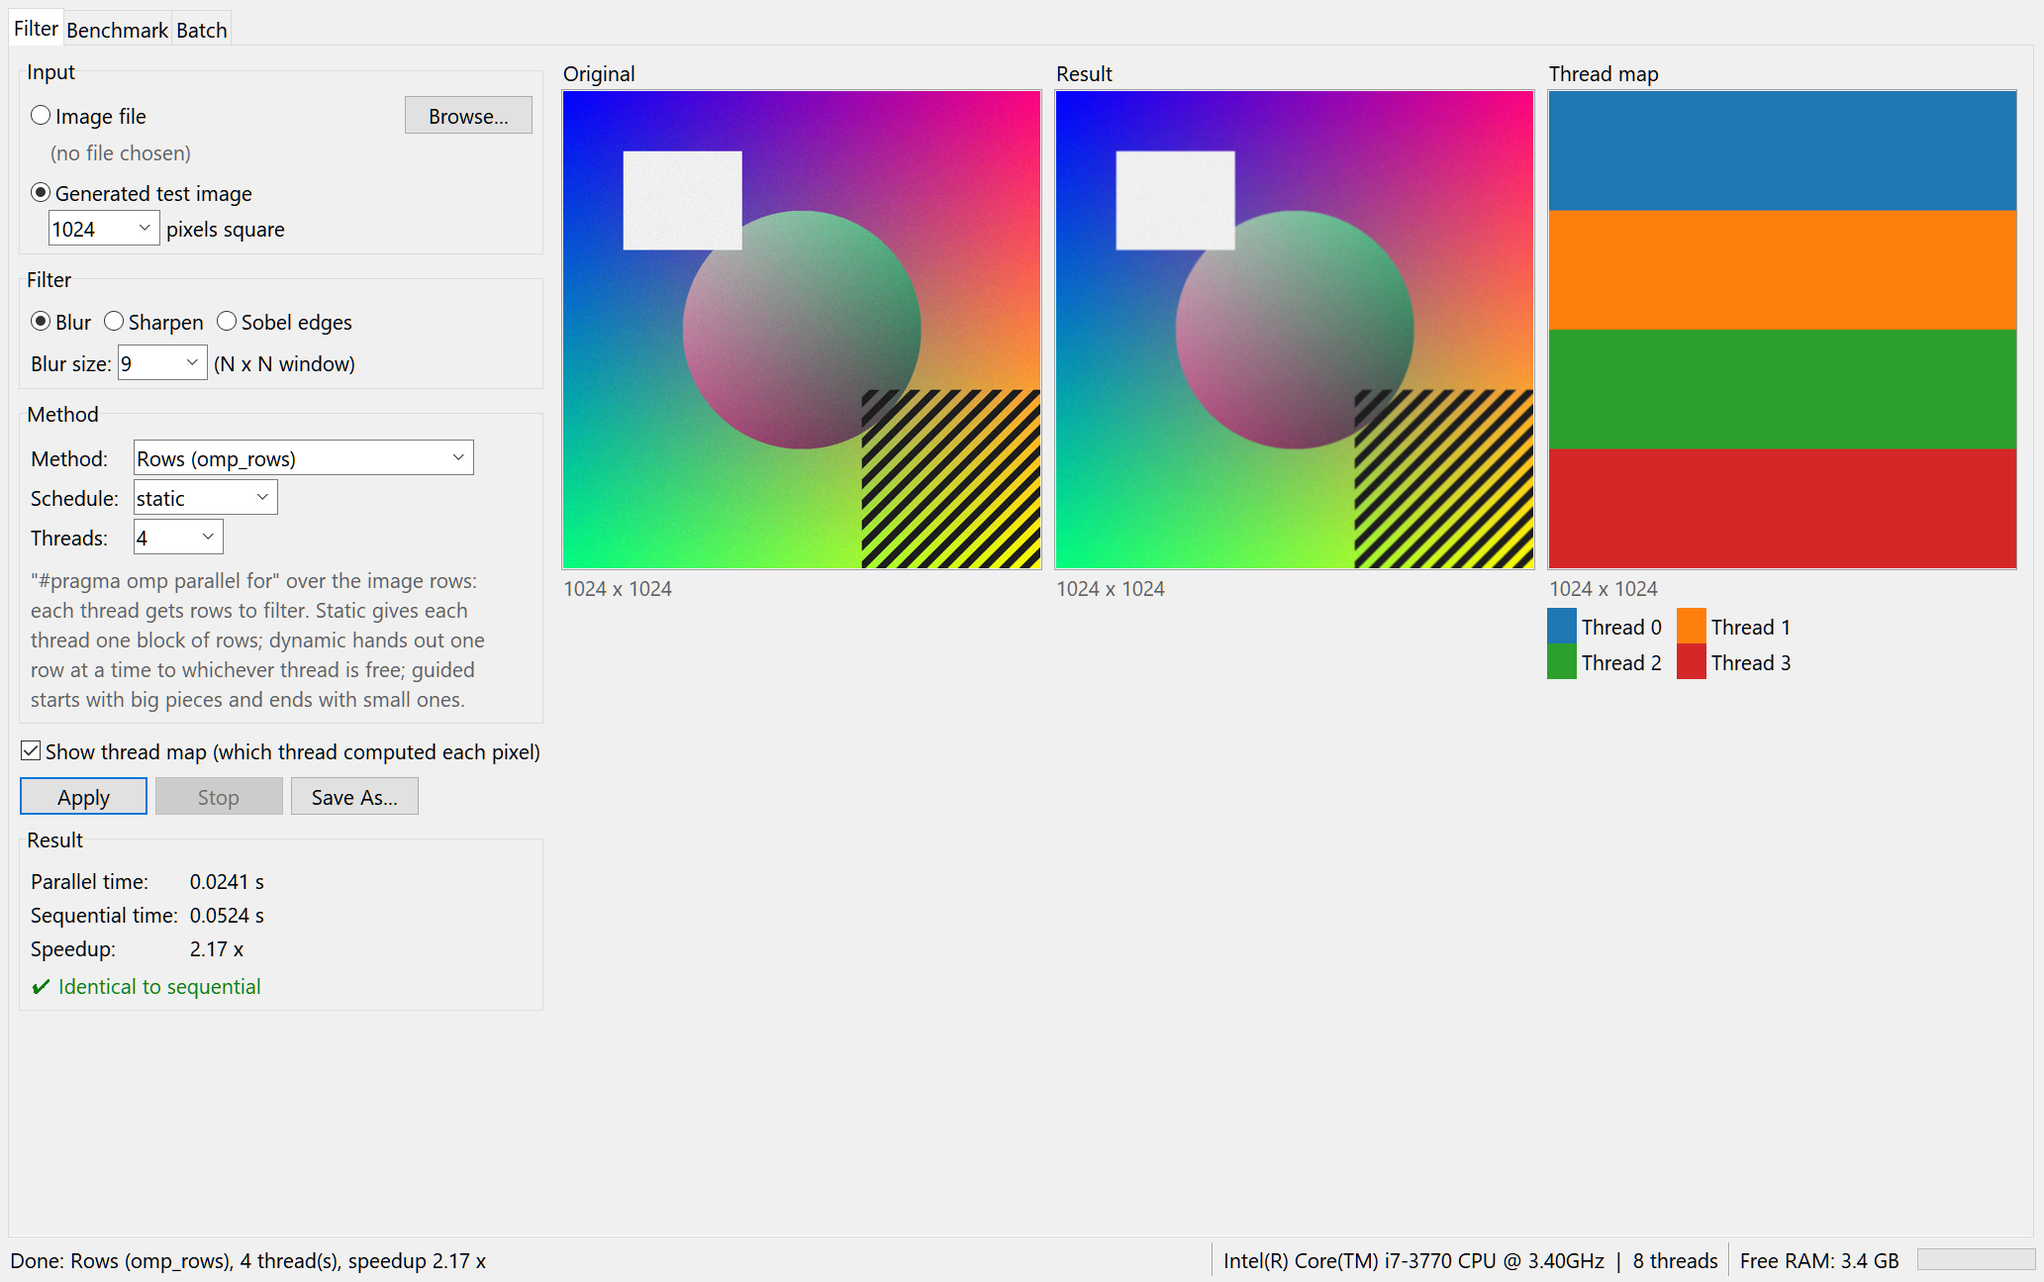
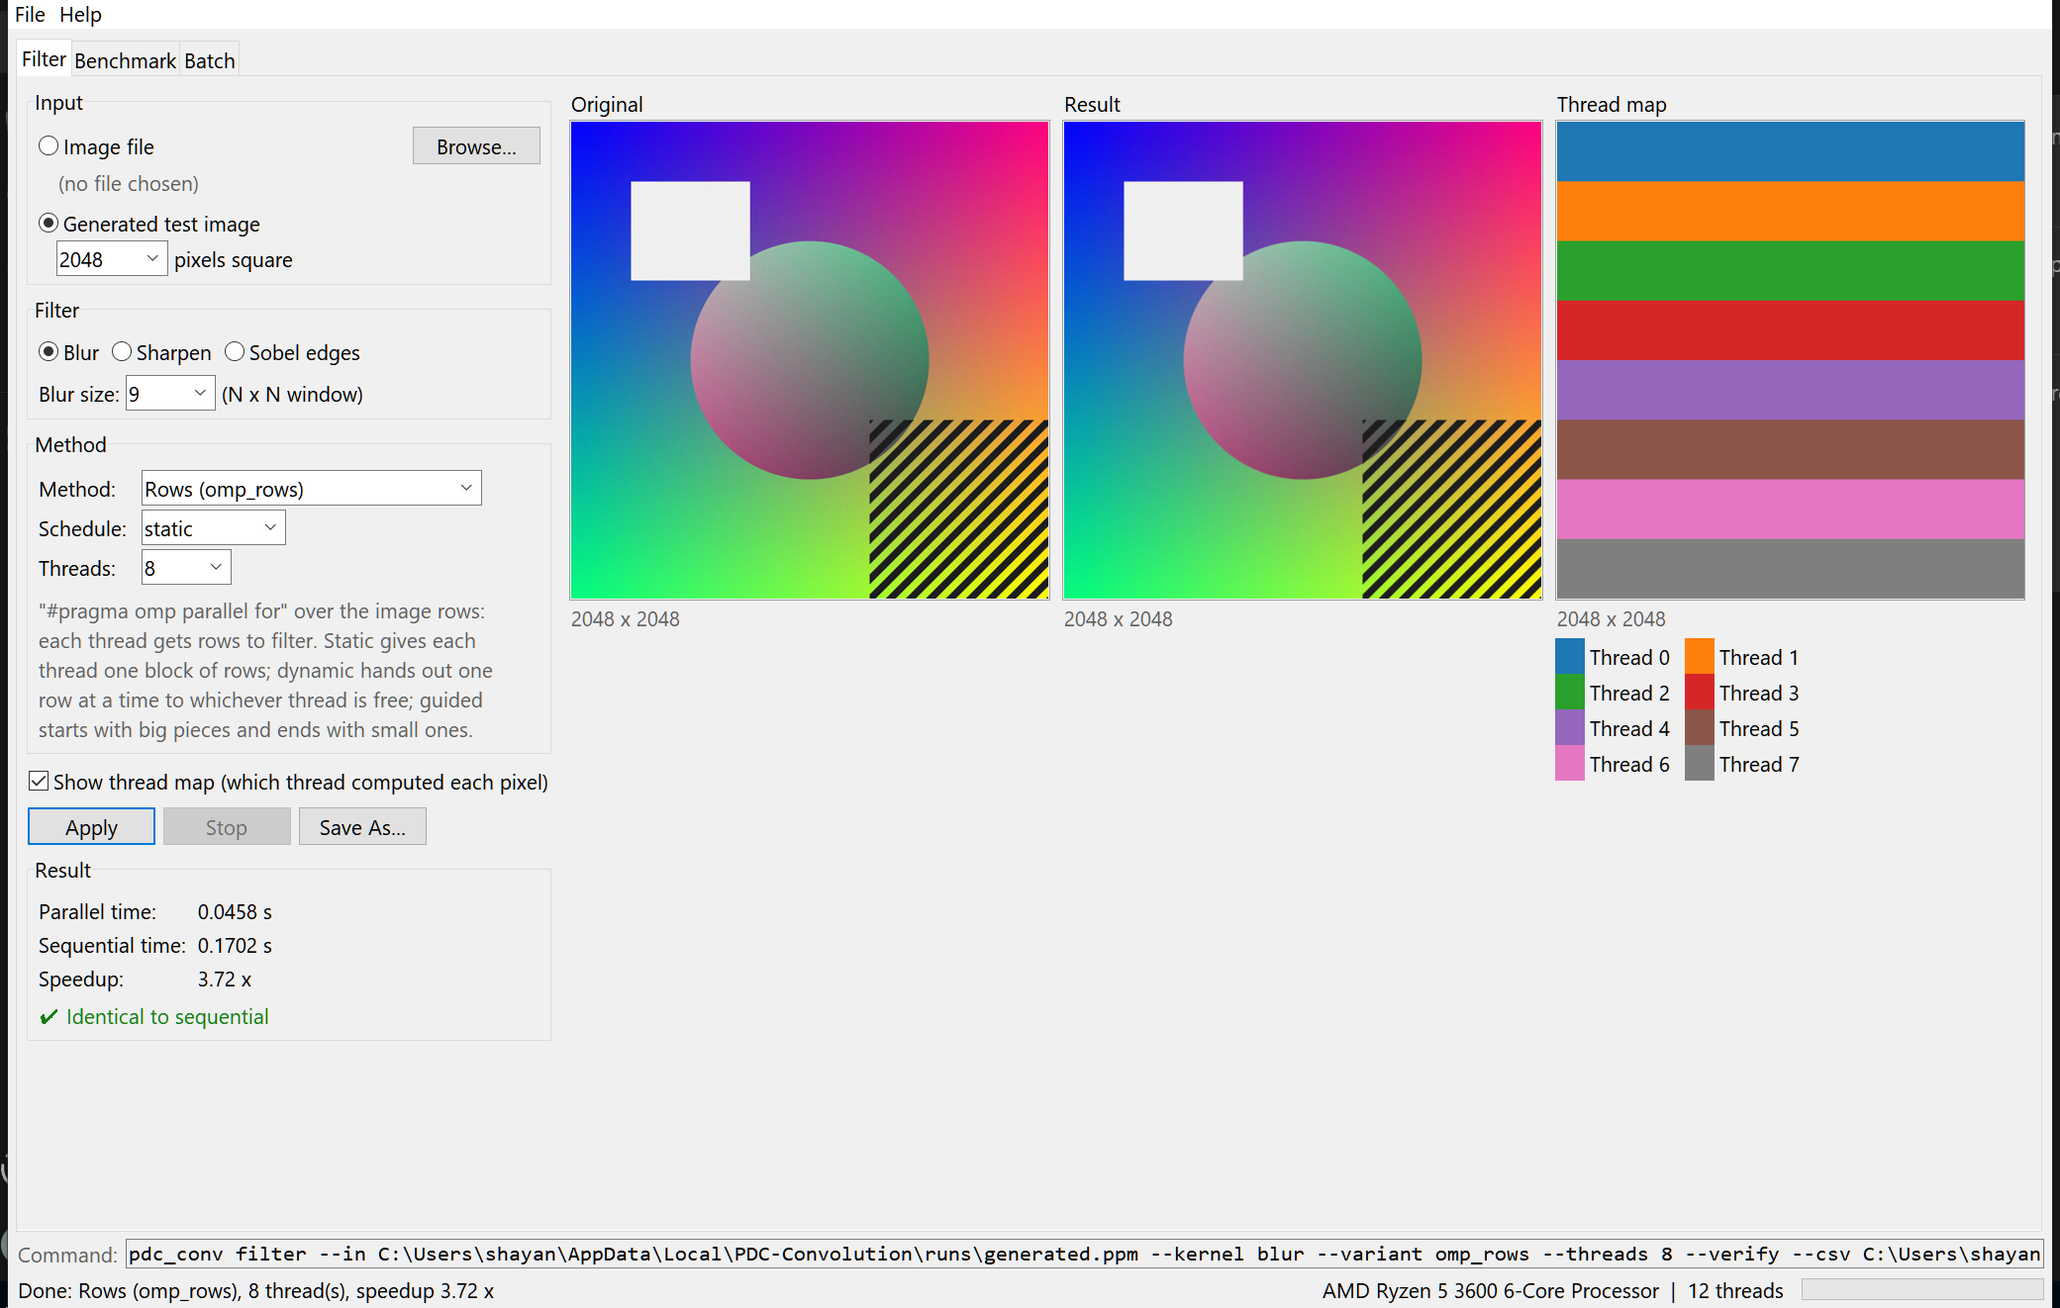
docs: five methods, live results; drop design and plan notes; new screenshots
The report keeps a short note on the fused separable blur that was tried and
removed, with its measured timings.

Changed region(s): [[0.0, 0.0, 1.0, 1.0], [0.6818, 0.2162, 0.7128, 0.2471]]

diff --git a/REPORT.md b/REPORT.md
@@ -55,7 +55,6 @@ integer arithmetic is used, so all methods produce identical bytes. Borders use
 | `omp_tiled` | 16 x 2048 tiles shared between threads | `parallel for collapse(2) schedule(static)` |
 | `seq_sep` | separable blur: 1-D horizontal pass, then vertical pass (2N instead of N² multiplications per pixel), one thread | none |
 | `omp_sep` | both separable passes parallel over rows, full-size 32-bit intermediate | one `parallel` region, two `for` loops; the implicit barrier between them is required |
-| `omp_sep_fused` | each thread does both passes on blocks of 16 rows in a private buffer; no barrier, 2r rows per block recomputed | `parallel` + `for schedule(static)`, private buffer per thread |
 | batch `per_row` | images one after another, each with `omp_rows` | as `omp_rows` |
 | batch `per_image` | whole images handed to free threads | `parallel for schedule(dynamic, 1)` |
 
@@ -87,7 +86,6 @@ Time in seconds, speedup T1 / Tp in brackets.
 | Blur 5x5 | 2.621 | `omp_rows` | 1.453 (1.80) | 0.858 (3.05) | 0.618 (4.24) |
 | | | `omp_tiled` | 1.398 (1.88) | 0.865 (3.03) | 0.615 (4.26) |
 | | | `omp_sep` | 0.720 (3.64) | 0.567 (4.63) | 0.609 (4.30) |
-| | | `omp_sep_fused` | 0.765 (3.43) | 0.651 (4.03) | 0.670 (3.91) |
 | Sharpen | 0.215 | `omp_rows` | 0.145 (1.49) | 0.130 (1.66) | 0.133 (1.62) |
 | | | `omp_tiled` | 0.145 (1.49) | 0.134 (1.60) | 0.134 (1.61) |
 | Sobel | 0.485 | `omp_rows` | 0.272 (1.78) | 0.183 (2.64) | 0.172 (2.82) |
@@ -95,7 +93,6 @@ Time in seconds, speedup T1 / Tp in brackets.
 | Blur 15x15 | 16.590 | `omp_rows` | 8.877 (1.87) | 5.296 (3.13) | 3.839 (4.32) |
 | | | `omp_tiled` | 8.637 (1.92) | 5.240 (3.17) | 3.846 (4.31) |
 | | | `omp_sep` | 1.572 (10.56) | 1.449 (11.45) | 2.415 (6.87) |
-| | | `omp_sep_fused` | 2.124 (7.81) | 1.555 (10.67) | 2.414 (6.87) |
 
 One-thread separable times: blur 5x5 `seq_sep` 1.252 s (2.09x faster than `seq`),
 blur 15x15 `seq_sep` 3.009 s (5.51x). Every row verified `ok`.
@@ -106,14 +103,14 @@ blur 15x15 `seq_sep` 3.009 s (5.51x). Every row verified `ok`.
 
 ### 4.2 Blur size (`results/blur_sizes.csv`, 8000 x 8000, 8 threads)
 
-| Blur size | T1 (s) | `omp_rows` | `omp_tiled` | `omp_sep_fused` |
-|---|---:|---:|---:|---:|
-| 3 | 0.536 | 4.30 | 4.35 | 2.34 |
-| 5 | 1.100 | 4.29 | 4.27 | 4.21 |
-| 9 | 2.954 | 3.98 | 4.33 | 8.70 |
-| 15 | 7.216 | 4.20 | 4.20 | 10.40 |
-| 21 | 13.476 | 4.16 | 4.18 | 11.90 |
-| 25 | 18.777 | 4.14 | 4.14 | 12.66 |
+| Blur size | T1 (s) | `omp_rows` | `omp_tiled` |
+|---|---:|---:|---:|
+| 3 | 0.536 | 4.30 | 4.35 |
+| 5 | 1.100 | 4.29 | 4.27 |
+| 9 | 2.954 | 3.98 | 4.33 |
+| 15 | 7.216 | 4.20 | 4.20 |
+| 21 | 13.476 | 4.16 | 4.18 |
+| 25 | 18.777 | 4.14 | 4.14 |
 
 (speedup over `seq` at the same blur size)
 
@@ -179,36 +176,15 @@ more work per pixel (brightness of 8 neighbours, two gradients) and reaches 2.8 
 
 **Arithmetic per byte decides scaling (blur sweep).** The 2-D blur does N² weighted
 sums per channel, so it is compute-bound for every size and scales at 3.98 to 4.35x
-with 8 threads regardless of N. The separable methods do only 2N, so at small N
-they are memory-bound like sharpen, and the speedup over `seq` comes from both
-fewer operations and threads: 2.3x at N = 3, 12.7x at N = 25.
+with 8 threads regardless of N. Even at N = 3 (9 sums) it scales better than
+sharpen (5 operations), which levels off at 1.6x.
 
-**Separable and fused at 12000 x 12000.** The separable methods are the fastest at
+**Separable blur at 12000 x 12000.** The separable methods are the fastest at
 every thread count for blur (best: `omp_sep` at 4 threads, 0.567 s for 5x5 and
 1.449 s for 15x15, 4.6x and 11.4x over `seq`). But they scale only about 2x on
 their own (`speedup_vs_self_1thread` 1.9 to 2.5 at 4 threads) and get **slower from 4 to 8
 threads**: they read and write a lot of memory for little arithmetic, and extra
 Hyper-Threads only add competition for the same memory and caches.
-
-Fusing the two passes did **not** beat the plain separable version at this size,
-contrary to what we expected. Two reasons, both visible in the numbers:
-
-1. A row of 32-bit sums for a 12000-pixel row is 144 KB, so one thread's block
-   buffer (16 + 2r rows) is 2.9 MB for 5x5 and 4.3 MB for 15x15. That does not fit
-   in a 256 KB L2, and 4 threads' buffers do not fit in the 8 MB L3, so the
-   intermediate still goes to main memory.
-2. Each block recomputes 2r extra rows: 4 per 16 rows for 5x5 (+25 % horizontal
-   work) and 14 per 16 rows for 15x15 (+88 %). With one thread, fused 15x15 takes
-   3.875 s against 3.009 s for `seq_sep`.
-
-The blur sweep (8000 x 8000) ran only `omp_sep_fused`, not `omp_sep`, so it cannot
-say whether fusion wins there. Fused scales a little better on itself at 8000 (2.6
-to 2.8x at 4 threads, against 1.9 to 2.5x for both separable methods at 12000), but
-its buffer is still 1.9 MB (5x5) to 3.8 MB (25x25) per thread, so it does not stay
-in the cache there either. Its 8.7x to 12.7x over `seq` for blur 9 and up comes
-mostly from doing 2N instead of N² operations. Making fusion pay off would need a
-buffer that fits in L2: blocks that are narrow as well as short (column strips). We
-kept the simpler version and report this as a measured limitation.
 
 **Scheduling.** The three schedules are within 2 % of each other (4.31x, 4.38x,
 4.31x at 8 threads), less than the variation between repeated runs of the same
@@ -237,7 +213,10 @@ implementation for all sizes over a separate fast path for 5x5.
 A small Windows app (`gui/`) runs the same program for the demo; it does no
 filtering or timing itself. The Filter tab shows one method against sequential with
 the thread map; the Benchmark and Batch tabs run `bench` and `batch` and draw the
-same charts as above.
+same charts as above. The program writes each CSV row as soon as it is measured,
+so the table and chart fill in while a run is going, and the app shows the exact
+`pdc_conv` command it is running, so every result can be repeated on the command
+line.
 
 ![Filter tab](docs/screenshots/filter_tab.png)
 ![Benchmark tab](docs/screenshots/benchmark_tab.png)
@@ -250,17 +229,22 @@ same charts as above.
   scaling; 5x5 stays the main case.
 - Added the scheduling comparison, thread maps and a desktop app for the demo;
   `-march=x86-64-v2` so the same exe runs on another computer.
+- We also tried a "fused" separable blur: each thread did both passes on blocks of
+  16 rows in a small private buffer, so there was no barrier. It was never faster
+  than `omp_sep` (5x5 at 4 threads: 0.651 s against 0.567 s), because one thread's
+  buffer (2.9 to 4.3 MB at 12000 width) does not fit in the 256 KB L2, so the
+  intermediate still went to main memory, and each block recomputed 2r extra rows.
+  We removed it to keep the program small; its timings are still in the raw logs
+  in `results/`.
 
 ## 7. Conclusion
 
-All six methods and both batch strategies produce byte-identical output to the
+All five methods and both batch strategies produce byte-identical output to the
 sequential program for every size and thread count tested. On a 4-core / 8-thread
 CPU the 2-D filters reach about 3x with 4 threads and 4.3x with 8 (blur), limited
 by physical cores and memory bandwidth; low-arithmetic filters (sharpen) are
 memory-bound at 1.6x. The separable blur gives the fastest blur by doing less work
-(up to 11.4x over `seq` for 15x15), but scales poorly because it is memory-bound.
-Fusing its passes did not beat the plain separable version at 12000 width, because
-the per-thread buffer (2.9 to 4.3 MB) does not fit in the cache. For many small images, one image per thread beats
+(up to 11.4x over `seq` for 15x15), but scales poorly because it is memory-bound. For many small images, one image per thread beats
 splitting each image. The experiments match the course concepts: Amdahl's law,
 memory-bound vs compute-bound work, the cost of barriers, and the limits of
 Hyper-Threading.

diff --git a/VIVA_GUIDE.md b/VIVA_GUIDE.md
@@ -75,9 +75,8 @@ size, radius, blur weights, shift), `Method`, `Schedule`, `RunOptions`,
   blur. Horizontal: weighted sums along one row into 32-bit numbers. Vertical: for
   one output row, weighted sum of N rows of those sums, then round and shift.
 
-### src/parallel.c: the six methods (the OpenMP part, know this best)
-- `run_options_default`: 1 thread, static schedule, 16 x 2048 tiles, 16 rows per
-  fused block.
+### src/parallel.c: the five methods (the OpenMP part, know this best)
+- `run_options_default`: 1 thread, static schedule, 16 x 2048 tiles.
 - `mark_owner`: only for the thread map. Writes `omp_get_thread_num()` into one byte
   per pixel of the rectangle a thread just wrote. Does nothing in timed runs
   (`owner` is NULL).
@@ -97,13 +96,6 @@ size, radius, blur weights, shift), `Method`, `Schedule`, `RunOptions`,
   `#pragma omp for` loops: pass 1 then pass 2. The end of the first loop is an
   **implicit barrier**: pass 2 needs rows of sums that other threads produced, so
   nobody may start pass 2 until everyone has finished pass 1.
-- `run_separable_fused` (**omp_sep_fused**): each thread allocates a small private
-  buffer, then takes blocks of 16 output rows (`omp for schedule(static)`). For a
-  block it does the horizontal pass on the 16 + 2r rows it needs, straight into its
-  buffer, then the vertical pass from that buffer. No barrier is needed, and the
-  buffer can stay in the cache if the image is not too wide. Cost: the 2r rows at
-  block edges are computed twice. (At 12000 width the buffer is 2.9 MB, too big for
-  the cache, so fusion did not beat `omp_sep` there; see question 11.)
 - `run_method`: sets the thread count (`omp_set_num_threads`), sets the schedule for
   Rows (`omp_set_schedule`), and calls the method with a `switch`.
 - `method_name`, `method_from_name`, `method_blur_only`, `method_is_parallel`,
@@ -117,7 +109,8 @@ size, radius, blur weights, shift), `Method`, `Schedule`, `RunOptions`,
 - `best_time`: run a method several times, keep the fastest.
 - `run_bench`: sequential reference first (output + T1), then every method at every
   thread count. Before each method the output is filled with junk (0xA5), so a
-  method that wrote nothing cannot pass. Prints a table and writes the CSV.
+  method that wrote nothing cannot pass. Each CSV row is written and flushed
+  (`fflush`) before the table line is printed, so the app can show it straight away.
 - `run_batch`: many small images. `per_row`: images one after another, each with
   the Rows method (threads share each image). `per_image`: `#pragma omp parallel`
   with `#pragma omp for schedule(dynamic, 1)` over the images, each thread filtering
@@ -134,7 +127,7 @@ stdout is unbuffered so the app sees each line as it is printed.
 - `gui/app.pyw`: the window (Filter, Benchmark, Batch tabs). Builds a `pdc_conv`
   command line, runs it, shows the images, table and chart.
 - `gui/engine.py`: runs the exe in the background (`EngineRun`), method names and
-  help texts, CPU/RAM detection, image conversion to PPM.
+  help texts, the CPU name, the command line shown in the app, image conversion to PPM.
 - `gui/charts.py`: the graphs, shared by the app and the report.
 - `scripts/build.ps1` (compile), `run_all.py` (all experiments), `plot_results.py`
   (graphs), `package.ps1` (the zip for the laptop).
@@ -149,7 +142,6 @@ stdout is unbuffered so the app sees each line as it is printed.
 | `run_method` | `omp_set_num_threads`, `omp_set_schedule` | thread count and Rows schedule from the command line |
 | `run_tiled` | `parallel for collapse(2) schedule(static)` | two tile loops become one list of tiles, enough pieces for all threads |
 | `run_separable` | `parallel` + two `for` | one team for both passes; implicit barrier between them is required |
-| `run_separable_fused` | `parallel` + `for`, private buffer per thread | each thread keeps its intermediate in a small private buffer (meant to stay in the cache); no barrier |
 | `run_batch` | `parallel for schedule(dynamic, 1)`; `parallel` + `for schedule(dynamic, 1)` | hand whole images to whichever thread is free |
 | `image_count_differences` | `parallel for reduction(+ : differences)` | each thread counts privately; counts added at the end, no race |
 | `first_touch`, `image_make_test` | `parallel for schedule(static)` | prepare buffers in parallel before timing |
@@ -232,15 +224,12 @@ shared for writing, so there is nothing to protect.
     byte and writes then reads a full-size intermediate (4 bytes per channel, 1.7 GB
     at 12000²) through main memory. It is limited by memory bandwidth, which all
     cores share, plus the barrier.
-11. **Did fusion help?** No, not at our sizes. The idea: each thread uses a small
-    buffer (16 + 2r rows), so the intermediate need not go to main memory and there
-    is no barrier. But at 12000 x 12000 a row of sums is 144 KB, so the buffer is
-    2.9 MB (5x5) to 4.3 MB (15x15): bigger than L2 (256 KB), and 4 of them exceed the
-    8 MB L3. Plus the 2r recomputed rows (+25 % work for 5x5, +88 % for 15x15). So it
-    was not faster than `omp_sep`. At 8000 x 8000 it scaled a little better on itself
-    (2.6 to 2.8x at 4 threads), but its buffer (1.9 to 3.8 MB) still does not fit,
-    and we did not run `omp_sep` there to compare. The fix would be column strips
-    (narrow blocks) so the buffer fits in L2; we kept the simple version and report it.
+11. **Could you avoid that barrier?** We tried: a "fused" version where each thread
+    did both passes on blocks of 16 rows in a small private buffer, recomputing the
+    2r rows at block edges. It was never faster than `omp_sep` (0.651 s against
+    0.567 s, 5x5, 4 threads), because at 12000 width that buffer is 2.9 to 4.3 MB,
+    far bigger than the 256 KB L2, so the sums still went to main memory, plus the
+    extra rows. We removed it to keep the program small.
 12. **Why not 8x speedup with 8 threads?** The test CPU (i7-3770) has 4 physical
     cores; threads 5-8 are hyper-threads sharing those cores. Also memory bandwidth
     is shared, there is a serial part (starting threads, borders, the barrier), and
@@ -322,11 +311,12 @@ shared for writing, so there is nothing to protect.
 2. (1 min) **Filter** tab, generated 2048 image, Blur 9, Sequential, Apply. Then
    Rows, all threads, Apply: show parallel time, sequential time, speedup and
    "Identical to sequential".
-3. (1 min) Tick **Show thread map**. Rows + static: 4 or 8 solid bands. Switch to
+3. (1 min) The thread map is on by default. Rows + static: 4 or 8 solid bands. Switch to
    dynamic: interleaved stripes, "each row goes to whichever thread is free".
    Tiled: tiles by thread.
 4. (1 min 30) **Benchmark** tab, 4096, Blur 5, threads 1 2 4 8, reps 2, Run. While
-   it runs, explain the log (every line says ok). Show the speedup chart: separable
+   it runs, rows appear in the table one by one (Verified says ok) and the line
+   under the tabs shows the `pdc_conv bench ...` command being run. Show the speedup chart: separable
    lines start above 1 (less work), Rows and Tiled follow the ideal line up to 4
    threads and bend after (Hyper-Threading), ideal dashed line.
 5. (1 min) Show `results/plots` from the final run (12000 x 12000) and the batch

diff --git a/README.md b/README.md
@@ -1,9 +1,10 @@
 # Parallel Image Convolution / Filtering (OpenMP)
 
 Blur (any odd size 3 to 25), sharpen and Sobel edge detection on 24-bit RGB images,
-written sequentially first and then parallelised with OpenMP in six ways. Every
+written sequentially first and then parallelised with OpenMP in five ways. Every
 parallel method produces exactly the same bytes as the sequential one; `bench` and
-`batch` check that at every thread count, and the app checks it on every Apply. The written report is [REPORT.md](REPORT.md);
+`batch` check that at every thread count, and the app checks it on every Apply.
+The written report is [REPORT.md](REPORT.md);
 the study guide for the viva is [VIVA_GUIDE.md](VIVA_GUIDE.md).
 
 ## Run the app (demo laptop, nothing to install)
@@ -15,7 +16,9 @@ the study guide for the viva is [VIVA_GUIDE.md](VIVA_GUIDE.md).
 
 Tabs: **Filter** (one image, one method, compared with sequential, optional thread
 map), **Benchmark** (every method at several thread counts, chart and table),
-**Batch** (many small images). Help > Open source folder shows the C code.
+**Batch** (many small images). Results fill the table and chart while a run is going,
+and the line under the tabs shows the exact `pdc_conv` command the app is running.
+Press Enter to run the current tab. Help > Open source folder shows the C code.
 
 ![Filter tab](docs/screenshots/filter_tab.png)
 
@@ -51,11 +54,11 @@ pdc_conv batch  [--n 2000] [--bsize 1024] [--kernel blur]
 --schedule S    static|dynamic|guided, loop schedule of omp_rows (default static)
 --verify        filter: also run seq; print speedup and whether the output is identical
 --threadmap F   filter: an image showing which thread computed each pixel
---tile HxW      omp_tiled tile size (default 16x2048);  --fuse-bh R: omp_sep_fused rows per block (16)
+--tile HxW      omp_tiled tile size (default 16x2048)
 ```
 
-Methods: `seq`, `omp_rows`, `omp_tiled`, `seq_sep`, `omp_sep`, `omp_sep_fused`
-(the last three are blur only). Exit codes: 0 ok, 1 error (`error: ...` on stderr),
+Methods: `seq`, `omp_rows`, `omp_tiled`, `seq_sep`, `omp_sep`
+(the last two are blur only). Exit codes: 0 ok, 1 error (`error: ...` on stderr),
 2 an output differs from the sequential one.
 
 ## Folders
@@ -67,5 +70,5 @@ scripts/    build.ps1, run_all.py, plot_results.py, package.ps1
 tests/      unittest tests for the program and the app (+ small CSV fixtures)
 results/    the final CSVs, logs and plots used in the report
 demo/       example outputs and thread maps
-docs/       proposal, project list, design and plan
+docs/       proposal, project list, app screenshots
 ```
